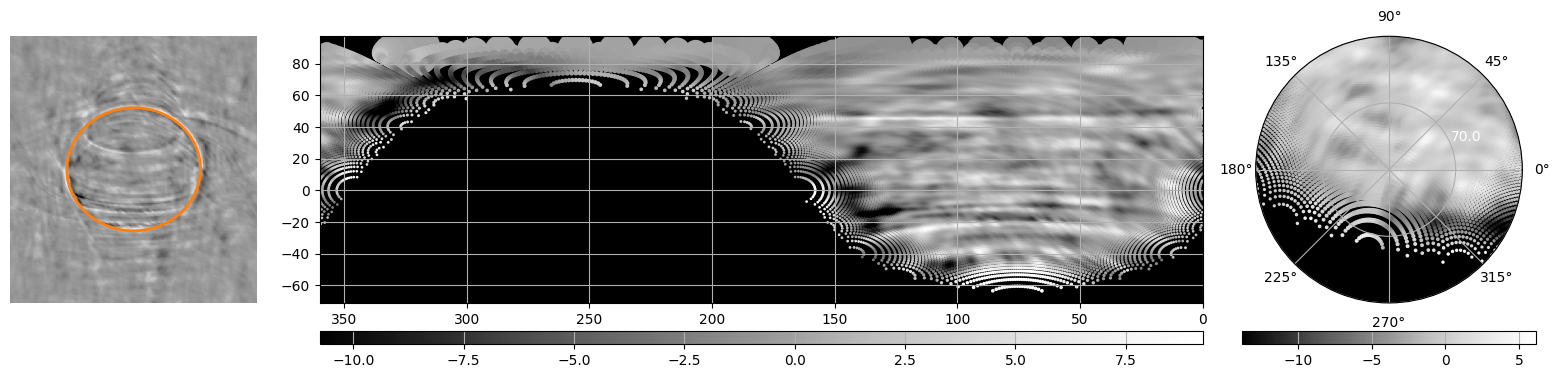
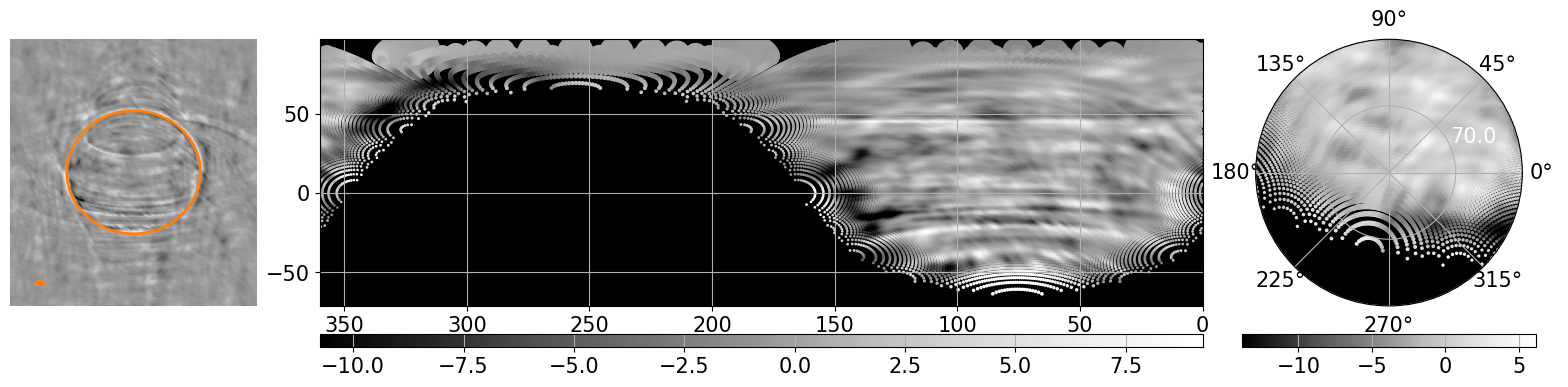
update figure 2

diff --git a/plot_vla_images.py b/plot_vla_images.py
@@ -34,6 +34,15 @@ parser.add_argument('--scale',
     default = '8',
     help = 'pixel scale'
     )
+parser.add_argument('--bmajor',
+    help = 'beam major in degrees'
+    )
+parser.add_argument('--bminor',
+    help = 'beam minor in degrees'
+    )
+parser.add_argument('--bpa',
+    help = 'beam polar angle in degrees'
+    )
 args = vars(parser.parse_args())
 
 def deg2rad(ang):
@@ -92,6 +101,16 @@ x2 = min(max(0, x2), nx - 1)
 y1 = min(max(0, y1), ny - 1)
 y2 = min(max(0, y2), ny - 1)
 
+dist = float(info['dist'])
+#bmajor  = deg2rad(4.6E-4) # major in degrees
+bmajor  = deg2rad(float(args['bmajor']))
+#bminor  = deg2rad(1.7E-4) # minor in degrees
+bminor  = deg2rad(float(args['bminor']))
+#bpa     = deg2rad(-69.4)  # position angle to north
+bpa     = deg2rad(float(args['bpa']))
+#dist   = 8.8*1.5E8       # range to saturn in km
+print(pix)
+
 #fig, axs = subplots(1, 3, figsize = (20, 4),
 #  gridspec_kw={'width_ratios':[1,3,1]})
 
@@ -107,12 +126,22 @@ ax.pcolormesh(data[x1:x2,y1:y2], cmap = 'Greys_r')
 ellipse = Ellipse((ycenter - y1, xcenter - x1), width = re*2, height = rp*2, angle = phi,
   fill = False, color = 'C1', ls = '-', lw = 2)
 ax.add_patch(ellipse)
+
+# beam pattern
+#print(dist*tan(bminor)/pix, dist*tan(bmajor)/pix, bpa)
+#print(re, rp)
+ellipse2 = Ellipse((ycenter - y1 - re*1.4, xcenter - x1 - rp*1.8),
+                   width = 2*dist*tan(bmajor)/pix,
+                   height = 2*dist*tan(bminor)/pix, angle = bpa,
+                   fill = True, color = 'C1', ls = '-', lw = 2)
+ax.add_patch(ellipse2)
 ax.set_aspect('equal')
 ax.axis('off')
 
 # cylindrical projection
 #ax = axs[1]
 ax = fig.add_subplot(gs[0,1])
+ax.tick_params(axis='both', which='major', labelsize=15)
 data = genfromtxt(args['data'])
 lat = data[:,1]
 lon = data[:,3]
@@ -151,6 +180,7 @@ ax.set_xlim([360., 0.])
 
 # add colorbar
 ax = fig.add_subplot(gs[1,1])
+ax.tick_params(axis='both', which='major', labelsize=15)
 colorbar(h1, cax = ax, orientation = 'horizontal')#, label = "%s band Tb' (K)" % args['band'])
 ax.grid('on')
 
@@ -165,6 +195,7 @@ if args['dv'] != 'none':
 else:
   vmin = tb[ix].min()
 ax = fig.add_subplot(gs[0,2], projection = 'polar')
+ax.tick_params(axis='both', which='major', labelsize=15)
 h2 = ax.scatter(lon[iy]/180.*pi, colat[iy], c = tb[iy],
   s = sa[iy], cmap = 'Greys_r', vmin = vmin, vmax = vmax)
 ax.set_ylim([0., 40.])
@@ -176,6 +207,7 @@ ax.set_facecolor('k')
 #divider = make_axes_locatable(ax)
 # color bar
 ax = fig.add_subplot(gs[1,2])
+ax.tick_params(axis='both', which='major', labelsize=15)
 colorbar(h2, cax = ax, orientation = 'horizontal')#, label = "Tb' (K)")
 ax.grid('on')
 
